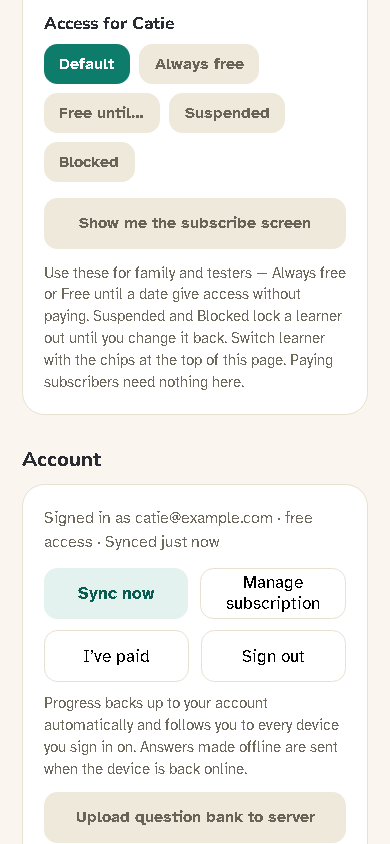
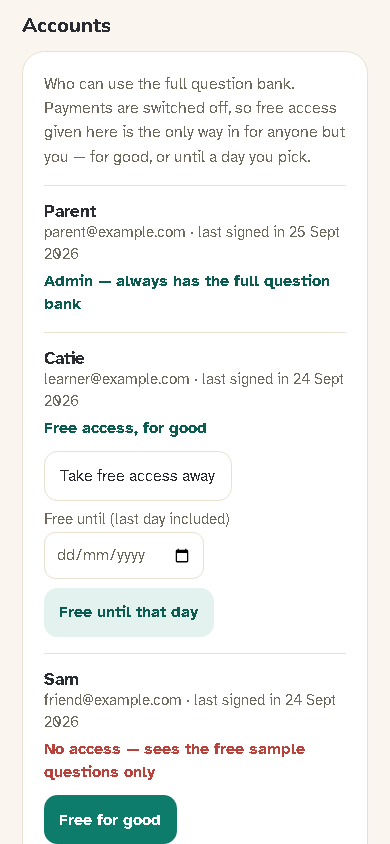
chore(release): v15-2026-09-25 — #42 folded, What's new, STATUS/REQUIREMENTS honest about payments, help guide updated
- CHANGELOG v15; REQUIREMENTS: server-side free access done, Stripe lines 🟡 (payments off,
  nothing deployed), signs quiz and tailored test marked 🟡 per the 2026-09-25 audit.
- STATUS: payments OFF, Accounts, Catie's login rotated (Vault v4), the admin's Vault copy
  stale since Darren's own reset, the third account; 389 tests.
- help.html: the lock screen while payments are off, Accounts; pictures retaken.

diff --git a/help.html b/help.html
@@ -727,18 +727,16 @@
         <h2 id="h-paying"><span class="num"></span>Subscription</h2>
         <div class="step">
           <div>
-            <p>The full question bank needs a subscription: <strong data-config="priceMonthly">£4.99 a month</strong> or <strong data-config="priceAnnual">£50 a year</strong>. Without one, the app shows a lock screen with:</p>
+            <p>The full question bank needs access. Card payments aren't switched on yet, so for now the admin gives it (<a href="#access">Accounts</a>). Without access, the app shows a lock screen that says so, with:</p>
             <ul>
-              <li><strong>Subscribe</strong> or <strong>Or … a year</strong> — pay on a page run by Stripe, the payment company. Access switches on by itself as soon as the payment goes through.</li>
               <li><strong>Try <span data-config="trialCount">20</span> free questions</strong> — a free sample, where it's offered.</li>
-              <li><strong>Manage subscription</strong> — change your card or plan, or cancel, on Stripe's page.</li>
-              <li><strong>I've paid</strong> — checks again straight away if access hasn't switched on yet.</li>
+              <li><strong>Check my access again</strong> — looks again straight away, for example once the admin has given free access.</li>
             </ul>
-            <p>If a payment fails, the lock screen says so and asks you to update the card; access comes straight back once it's paid. Family members and testers can be given free access by the admin instead.</p>
-            <p class="known"><strong>Not live yet:</strong> card payments still need setting up, so for now access is given by the admin.</p>
+            <p>Once payments are switched on, the lock screen also offers <strong>Subscribe</strong> (<span data-config="priceMonthly">£4.99 a month</span>) or <strong>Or … a year</strong> (<span data-config="priceAnnual">£50 a year</span>) on a page run by Stripe, the payment company; <strong>Manage subscription</strong> to change the card or plan, or cancel; and <strong>I've paid</strong>. If a payment fails, the lock screen says so; access comes straight back once it's paid.</p>
+            <p class="known"><strong>Not live yet:</strong> card payments. They are switched on in <code>config.js</code> (<code>payments</code>) only once Stripe is set up.</p>
           </div>
           <figure class="shot">
-            <a href="help/img/paywall.png"><img src="help/img/paywall.png" width="390" height="844" alt="The lock screen: Unlock the full question bank, a Subscribe button for £4.99 a month, Or £50 a year, Manage subscription, I've paid, Switch learner and the My notes button." loading="lazy"></a>
+            <a href="help/img/paywall.png"><img src="help/img/paywall.png" width="390" height="844" alt="The lock screen: Unlock the full question bank, saying payments aren't switched on yet and to ask the admin for free access, with Try 20 free questions, Check my access again and Switch learner." loading="lazy"></a>
             <figcaption>The lock screen</figcaption>
           </figure>
         </div>
@@ -840,8 +838,10 @@
         <h2 id="h-access"><span class="num"></span>Access and account tools</h2>
         <div class="step">
           <div>
-            <h3>Access for a learner</h3>
-            <p>Under <strong>Subscription</strong>, <strong>Access for …</strong> sets how the learner shown at the top gets in:</p>
+            <h3>Accounts</h3>
+            <p>Every account that has signed up, with its access: admin, free for good, free until a day, pays by subscription, or no access (the free sample only). <strong>Free for good</strong>, <strong>Free until that day</strong> (pick the last day in the calendar first; that day is included) and <strong>Take free access away</strong> change it straight away on the server, so it works on that person's own phone too. <strong>Refresh</strong> reloads the list. Only the admin account sees it.</p>
+            <h3>On this device: access for a learner</h3>
+            <p>Under <strong>Subscription</strong>, <strong>On this device: access for …</strong> sets how the learner shown at the top gets in on this phone or computer only:</p>
             <ul>
               <li><strong>Default</strong> — a subscription is needed as normal.</li>
               <li><strong>Always free</strong> or <strong>Free until…</strong> a date — for family and testers.</li>
@@ -849,13 +849,13 @@
             </ul>
             <p><strong>Show me the subscribe screen</strong> previews what a learner without access sees. Paying subscribers need nothing here.</p>
             <h3>Account</h3>
-            <p>Shows who is signed in and their access, with <strong>Sync now</strong>, <strong>Manage subscription</strong>, <strong>I've paid</strong> and <strong>Sign out</strong>. An admin account also sees <strong>Upload question bank to server</strong> and <strong>Server settings</strong> (the one-time link to the database; learners never need it).</p>
+            <p>Shows who is signed in and their access, with <strong>Sync now</strong> and <strong>Sign out</strong> (plus <strong>Manage subscription</strong> and <strong>I've paid</strong> once payments are switched on, for accounts that pay). An admin account also sees <strong>Upload question bank to server</strong> and <strong>Server settings</strong> (the one-time link to the database; learners never need it).</p>
             <h3>Data</h3>
             <p><strong>Export backup</strong> downloads a file with this learner's settings, memory boxes, answers and mock tests, plus any question edits. <strong>Import backup</strong> loads one back. (For everything the server keeps for the account, use <a href="#yourdata">Settings → Your data → Download my data</a>.) <strong>Edit questions</strong> and <strong>Print</strong> open those screens.</p>
           </div>
           <figure class="shot">
-            <a href="help/img/admin-access.png"><img src="help/img/admin-access.png" width="390" height="844" alt="Access for Catie with Default, Always free, Free until, Suspended and Blocked, Show me the subscribe screen, and the Account section with Sync now, Manage subscription, I've paid, Sign out and Upload question bank to server." loading="lazy"></a>
-            <figcaption>Access and Account</figcaption>
+            <a href="help/img/admin-access.png"><img src="help/img/admin-access.png" width="390" height="844" alt="Accounts: each account with its access (Admin, Free access for good, No access), and Free for good, Take free access away, a Free until date box and Free until that day." loading="lazy"></a>
+            <figcaption>Accounts</figcaption>
           </figure>
         </div>
       </section>

diff --git a/Theory Trainer.dc.html b/Theory Trainer.dc.html
@@ -82,12 +82,11 @@ window.TTWelcome = (function(){
   // sw.js VERSION moves on and these don't, so every promotion rewrites them: the newest
   // features, in plain words, written to the learner ("you"). No markdown.
   W.NEWS = {
-    version: 'v14-2026-09-25',
+    version: 'v15-2026-09-25',
     items: [
-      'Adventure stars are safe on every device now: using the app on a second phone or computer never wipes the stages you passed on another.',
-      'On a computer, all 14 Adventure worlds fit on one row of tabs.',
-      'On a phone, the Adventure top bar shows your name in full and just your stars.',
-      '“Best run” and the in-a-row counter in Adventure count first tries only, the same as your score.'
+      'Signing in from an email link now works properly: you arrive signed in, with your progress, straight away.',
+      'No more payment buttons that could not work: if the full question bank is locked, the screen tells you to ask the admin for free access.',
+      'For the admin: Progress dashboard → Accounts shows every account and gives free access for good, or until a day you pick.'
     ]
   };
 

diff --git a/sw.js b/sw.js
@@ -2,7 +2,7 @@
 // BUMP VERSION in every deploy that changes any file in CORE — the cache name is
 // the only update signal existing installs get. Merging without a bump ships a
 // stale shell to every install that is currently offline.
-const VERSION = 'v14-2026-09-25';
+const VERSION = 'v15-2026-09-25';
 const C = 'theory-trainer-' + VERSION;
 // CORE is all-or-nothing: the install fails unless every file arrives, so nothing here can
 // be half-cached. The last line is the Adventure page's own files; it also needs config.js,

diff --git a/REQUIREMENTS.md b/REQUIREMENTS.md
@@ -15,7 +15,7 @@ States: ✅ built · 🟡 partly built, or built but only tested against a simul
 
 ## 1. Learning content and modes
 - ✅ 378 original questions, 14 DVSA topics, 4 options, explanation + Highway Code reference. *Checked against current UK rules 2026-09-24 (issue #20): 44 corrected, each with its source; `tests/bank.test.js` guards the shape and each corrected fact*
-- ✅ 20 road signs with spoken meanings, sign learning screen, signs quiz
+- 🟡 20 road signs with spoken meanings, sign learning screen, signs quiz. *23 bank questions describe a sign, marking or light with no picture, and the signs quiz makes its questions in code rather than taking them from the bank (issue #44, in progress: official DfT images)*
 - ✅ Practise mode: read-aloud, Leitner boxes, 50:50, auto-advance
 - ✅ Mock test: 50 questions, 57 minutes, flag/review grid, pass mark 43
 - ✅ Build-your-own test, surprise mix, focus drill
@@ -34,7 +34,7 @@ States: ✅ built · 🟡 partly built, or built but only tested against a simul
 - ✅ "Today's lesson" is a drill built from her own answers (`coach.js`): stuck, then flagged, then due by spacing (1/3/7/14/30 days), then new; topics interleaved; a missed question comes back 4 later, up to twice (2026-09-24)
 - ✅ **Stuck detection** (2026-09-24: 3+ misses, or misses on 2 different days, until right twice running; shown as "Keeps tripping you up" with her usual wrong pick, and drilled first): spot a question or topic a learner keeps failing (3+ misses, or repeated misses across sessions) and change tactics instead of repeating the same card
 - 🟡 **Tailored micro-lessons**: when stuck, a short explainer for that exact concept, then re-test it. *Built as an approved memory tip per question plus the drill's re-test. The "easier scaffolding questions" part is dropped: it would mean inventing questions, which the standing rule above forbids*
-- ✅ **Tailored test generator** (2026-09-24: Today's lesson, from `coach.js`; distractor types not used yet): build a test on demand from the learner's own error pattern (topic mix, difficulty, distractor types they fall for), not a fixed template. *Hand-picked version done (My answers); automatic version not built*
+- 🟡 **Tailored test generator** (2026-09-24: Today's lesson, from `coach.js`; difficulty and distractor types not used yet — the audit of 2026-09-25 found the drill uses neither): build a test on demand from the learner's own error pattern (topic mix, difficulty, distractor types they fall for), not a fixed template. *Hand-picked version done (My answers); automatic version not built*
 - 🟡 **Distractor analysis**: record which wrong option was chosen, cluster the misconception, address that specifically. *The chosen option is recorded on every answer, and `TTCoach.misconceptions` finds the wrong answer she keeps choosing, per question and per topic. On screen since v12: "Keeps tripping you up", My answers and its "Same wrong answer again" filter. Grouping similar misconceptions by meaning is not built*
 - ✅ **Improvement suggestions on Home**: "You lose most marks on stopping distances — 10 minutes here would move your readiness 6%", ranked by predicted gain. *v12: Home's "What to work on" card, ranked by predicted gain, with a drill button. Measured as "N more right answers → expected score", not minutes or readiness %*
 - ✅ **Pass prediction**: estimate mock score and probability of passing, with what would raise it. *v12, on My Progress. Not checked against real test results: not verified*
@@ -61,10 +61,11 @@ States: ✅ built · 🟡 partly built, or built but only tested against a simul
 ## 4. Owner / admin console — currently the biggest gap
 Today's "admin" is device-local: it edits the local snapshot on that one phone. It cannot see other customers.
 - ✅ Local: grant a learner free access, free-until-a-date, suspend, block; question editor; pack toggles; bank upload
+- ✅ **Server-side free access** (v15, #42): Progress dashboard → Accounts lists every account with its access; the admin gives free access for good or until a day, or takes it away, written to `entitlements` by the server (`admin_set_access`), refused for anyone but the admin and for a Stripe payer
 - ⛔ **A real admin console, server-side**, signed in as admin, seeing every customer:
   - Customer list: email, signed-up date, plan, status, last active, lifetime value, search and filter
   - Customer detail: their learners, progress, mock history, sessions, devices, payment history, notes
-  - **Exempt from paying**: mark an account comp/free, with reason and optional expiry, written to `entitlements` server-side (not the device)
+  - ✅ **Exempt from paying** (v15): mark an account free, with optional expiry, written to `entitlements` server-side (Accounts). *No reason field yet*
   - Suspend, block, restore, force sign-out, delete account with data
   - Refund or cancel a subscription from the console (via Stripe), and see failed payments
   - Change a customer's plan, extend a trial, add free days
@@ -80,9 +81,9 @@ Today's "admin" is device-local: it edits the local snapshot on that one phone. 
   - Support inbox or at least a "contact support" thread per customer
 
 ## 5. Billing and money
-- ✅ £4.99/month and £50/year in the app; Stripe hosts the card page
-- ✅ Payment-link checkout with account id attached; Stripe billing portal; free 20-question sample
-- ✅ Access granted/revoked by webhook on payment, cancellation and failure
+- 🟡 £4.99/month and £50/year in the app; Stripe hosts the card page. *Code only: payments are switched OFF (`config.js payments: false`, v15) because Stripe is not set up — no Payment Links, no edge functions, no webhook deployed (checked 2026-09-25). Until then the lock screen sends people to the admin for free access*
+- 🟡 Payment-link checkout with account id attached; Stripe billing portal; free 20-question sample. *The sample works; checkout and portal are off (above)*
+- 🟡 Access granted/revoked by webhook on payment, cancellation and failure. *The webhook is written (SETUP.md) but not deployed*
 - 🟡 Never tested against real Stripe
 - 📋 Your Stripe prices, links and webhook
 - ⛔ Coupons and codes at checkout (see §4)

diff --git a/CHANGELOG.md b/CHANGELOG.md
@@ -3,6 +3,25 @@
 Newest first. The version is the service-worker `VERSION` in `sw.js` — it changes on every
 deploy that touches the app's cached files. Earlier history: `git log`.
 
+## v15-2026-09-25
+Fixes for what Darren hit on v14 live (issue #42, PR #43). 389 tests (9 new, each seen failing first).
+- **Signing in from an email link no longer shows the admin a paywall.** `config.js` and `backend.js`
+  sat in `<helmet>`, so they ran twice; the second `backend.js` replaced the sign-in half-way with a
+  copy that had no user, and until a reload the app skipped the admin check, the age check and sync.
+  Both now load once, from the page head. A test fails if any script goes back into `<helmet>`.
+- **No payment buttons that can only fail.** Stripe isn't set up (no Payment Links, no server
+  functions), so `config.js` now has `payments: false`: the lock screen shows no Subscribe, Manage
+  subscription or "I've paid", says to ask the admin for free access, and "Check my access again"
+  says what it found. Nothing claims to be "checking with Stripe".
+- **The admin gives an account free access from the app:** Progress dashboard → Accounts lists every
+  account and its access, with Free for good, Free until a day and Take free access away. The server
+  decides and refuses anyone but the admin, a day already gone and a Stripe payer (`admin_accounts`,
+  `admin_set_access`; `has_access` honours a free-until day; migration `admin_free_access`).
+- The admin's account line says "admin account: full access, never charged"; the per-learner access
+  chips are labelled "On this device".
+- Catie's managed login was rotated again (Vault first, proven by signing in): its password had been
+  changed outside Vault after 2026-09-23.
+
 ## v14-2026-09-25
 Fixes from the v13 live browser check (issue #38, PR #39). 380 tests (13 new, each seen failing first).
 - **Adventure progress is no longer lost when two devices sync.** The sync kept the newer copy of a
